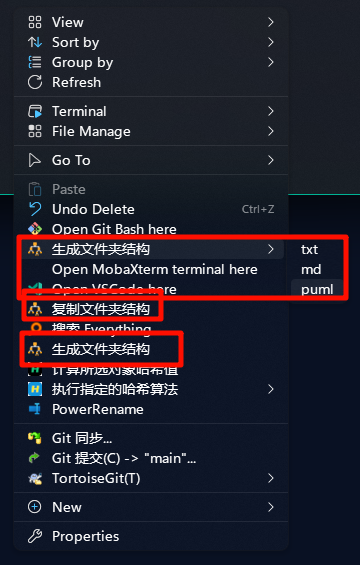
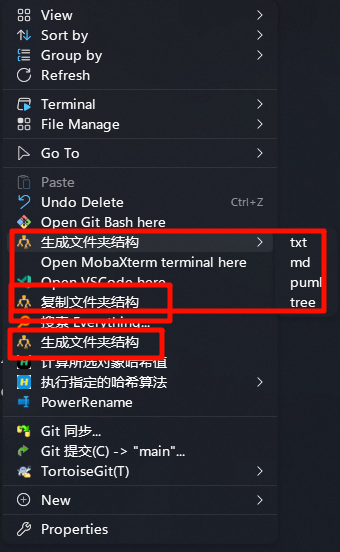
更新README

diff --git a/README.md b/README.md
@@ -46,6 +46,10 @@
 
 ![puml 导入 plantuml.com效果](assets/puml导入plantuml.com.png)
 
+8. 输出 Windows 默认 tree 效果
+
+![输出tree效果](assets/输出tree效果.png)
+
 # ➕ 使用方法：
 
 ## 演示视频：
@@ -68,7 +72,7 @@
 
 使用 🛡**管理员权限** 运行 📁`复制且输出md` 文件夹下的 `add_treemd.bat`即可。
 
-## 4. 需要复制且输出 txt 或 markdown 或 puml 功能
+## 4. 需要复制且输出 txt 或 markdown 或 puml 或 Windows 默认 tree 功能
 
 使用 🛡**管理员权限** 运行 📁`复制且输出md或txt或puml` 文件夹下的 `add_treeMDorTXTorPUML`即可。
 
@@ -88,4 +92,4 @@
 
 ## 3. 移除 生成文件夹结构 \*多选
 
-使用 复制且输出 md 或 txt ，卸载与移除需使用 🛡**管理员权限** 运行 📁`复制且输出md或txt` 文件夹 或 📁`C:\Program Files\Tree This Folder` 文件夹 下的 `remove_treeMDorTXTorPUML.bat`。
+使用 生成文件夹结构 \*多选 ，卸载与移除需使用 🛡**管理员权限** 运行 📁`复制且输出md或txt或puml或tree` 文件夹 或 📁`C:\Program Files\Tree This Folder` 文件夹 下的 `remove_treeMDorTXTorPUMLorTREE.bat`。
